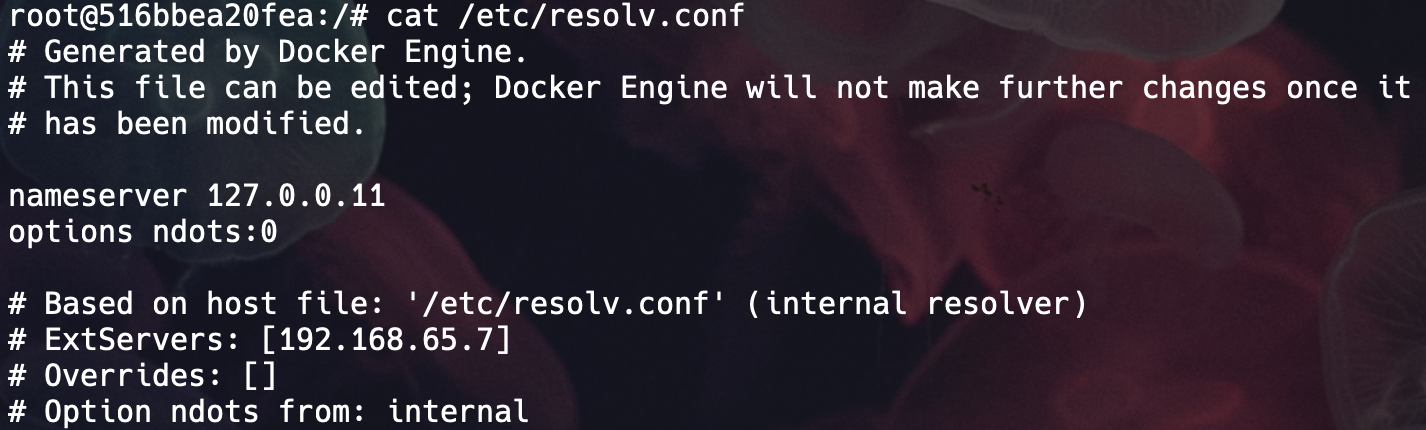
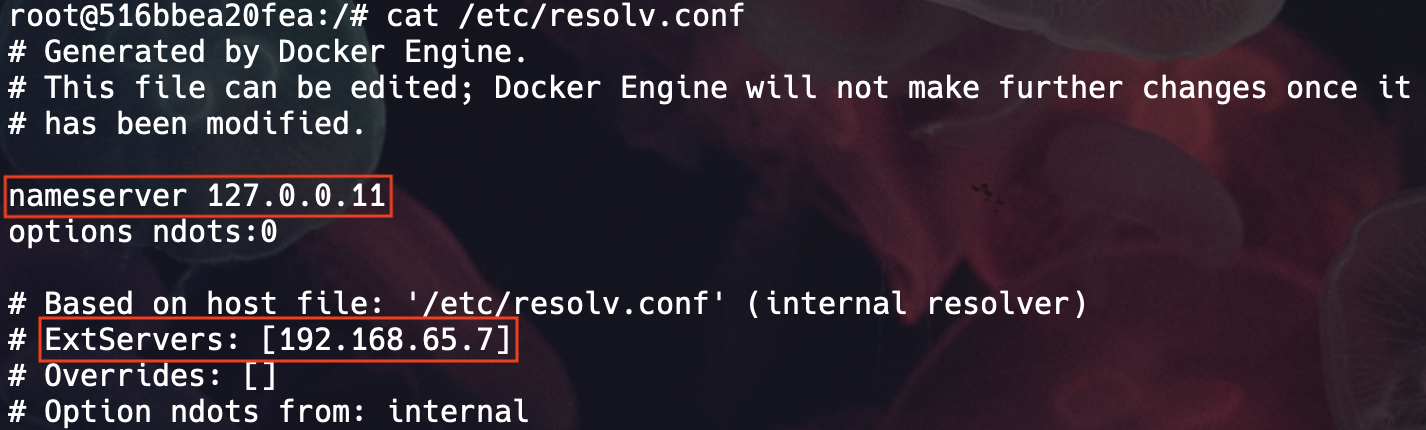
20個目追加

Changed region(s): [[0.0, 0.393, 0.2777, 0.514], [0.0309, 0.8163, 0.3703, 0.8465], [0.0309, 0.7256, 0.3703, 0.7558]]

diff --git a/articles/sankaku0724-newcreate20.md b/articles/sankaku0724-newcreate20.md
@@ -1,5 +1,5 @@
 ---
-title: "【初学者向け】Dockerネットワークの基礎と実践"
+title: "【初学者向け】Dockerネットワークの基礎"
 emoji: "🌐"
 type: "tech"
 topics:
@@ -38,11 +38,11 @@ https://docs.docker.com/
 
 ## Dockerネットワーク
 
-私たちはDockerを扱う際に仮想的なネットワークを作ることで，Dockerホストとコンテナ、もしくはコンテナ間で通信することができます。
+私たちはDockerを扱う際に仮想的なネットワークを作ることで、Dockerホストとコンテナ、もしくはコンテナ間で通信することができます。
 
-ここで，[**`docker network`コマンド**](https://docs.docker.jp/engine/userguide/networking/work-with-networks.html)を用いることでDocker上のネットワークの各種設定をすることができます．
+ここで、[**`docker network`コマンド**](https://docs.docker.jp/engine/userguide/networking/work-with-networks.html)を用いることでDocker上のネットワークの各種設定をすることができます。
 
-まず，Dockerが管理するネットワークの確認をしてみます．Dockerが管理するネットワークは、`docker network ls`コマンドで確認できます。
+まず、Dockerが管理するネットワークの確認をしてみます。Dockerが管理するネットワークは、[**`docker network ls`コマンド**](https://docs.docker.jp/engine/reference/commandline/network_ls.html)で確認できます。
 
 ```
 docker network ls
@@ -51,9 +51,9 @@ docker network ls
 ![](/images/sankaku20/1.png)
 *Dockerが管理するネットワーク*
 
-実行画面から分かるように、「bridge」「host」「none」という三つのネットワークが表示されました．[デフォルトでDockerは三つのネットワークを自動的に作成するようになっています](https://docs.docker.jp/engine/userguide/networking/dockernetworks.html#id2)。
+実行画面から分かるように、「bridge」「host」「none」という三つのネットワークが表示されました。[デフォルトでDockerは三つのネットワークを自動的に作成するようになっています](https://docs.docker.jp/engine/userguide/networking/dockernetworks.html#id2)。
 
-それぞれどんな役割を持つのか確認してみましょう．
+それぞれどんな役割を持つのか確認してみます。
 
 ## bridgeネットワーク
 
@@ -65,11 +65,11 @@ docker network ls
 
 #### コンテナの作成
 
-ここでは、2つのhttpdコンテナを起動し、そのコンテナに割り当てられるIPアドレスを確認します。httpdの使い方などは以下のサイトを確認してください。
+ここでは、2つのhttpdコンテナを起動し、そのコンテナに割り当てられるIPアドレスを確認します。httpdの使い方は以下のサイトに記載されています。
 
 https://hub.docker.com/_/httpd
 
-以下のコマンドでポート番号8080に割り当てた「web01」とポート番号8081に割り当てた「web02」という名前のコンテナをそれぞれ作成します．
+以下のコマンドでポート番号8080に割り当てた「web01」とポート番号8081に割り当てた「web02」という名前のコンテナをそれぞれ作成します。
 
 ```
 docker run -dit --name web01 -p 8080:80 httpd:2.4
@@ -84,8 +84,8 @@ docker run -dit --name web02 -p 8081:80 httpd:2.4
 
 #### IPアドレスの確認
 
-コンテナが起動したらIPアドレスを確認します．
-この際に，Dockerの詳細情報を取得するためのコマンドである[**`docker inspect`コマンド**](https://docs.docker.jp/engine/reference/commandline/inspect.html)を用いてコンテナの情報を抜き出し，さらに--formatオプションをつけることでIPアドレスの部分だけを表示させるようにします．
+コンテナが起動したらIPアドレスを確認します。
+この際に、Dockerの詳細情報を取得するためのコマンドである[**`docker inspect`コマンド**](https://docs.docker.jp/engine/reference/commandline/inspect.html)を用いてコンテナの情報を抜き出し、さらに--formatオプションを用いてIPアドレスの部分だけを表示させるようにします。
 
 ```
 docker container inspect --format="{{.NetworkSettings.IPAddress}}" web01
@@ -97,20 +97,20 @@ docker container inspect --format="{{.NetworkSettings.IPAddress}}" web02
 
 ![](/images/sankaku20/3.png)
 
-これにより，web01は「172.17.0.2」，web02は「172.17.0.3」というIPアドレスが設定されていることが判明しました．
+これにより、web01には「172.17.0.2」、web02には「172.17.0.3」のIPアドレスが設定されていることが判明しました。
 
 ### Dockerコンテナ同士の通信
 
-コンテナはそれぞれ異なるIPアドレスを持ち、bridgeネットワークに接続されています。そのため，コンテナ同士はこのネットワークを通じて互いに自由に通信を行うことができます．
+コンテナはそれぞれ異なるIPアドレスを持ち、bridgeネットワークに接続されています。そのため、コンテナ同士はこのネットワークを通じて互いに自由に通信を行うことができます。
 
-ここで注意する必要があります．**Dockerコンテナ間で通信する際は，-pオプションを設定する必要がない**ということです．-pオプションはDockerホスト側で受信したデータをそれぞれのDockerコンテナの特定のポートに転送する設定ですが、Dockerホストを経由しない通信の場合には必要ないからです．
+ここで注意が必要です。**Dockerコンテナ間で通信する際は-pオプションを設定する必要がない**ということです。-pオプションはDockerホスト側で受信したデータをそれぞれのDockerコンテナの特定のポートに転送する設定ですが、Dockerホストを経由しない通信の場合には必要ありません。
 
 #### 1. 三つ目のコンテナの作成
 
 実際にコンテナ間で通信できるのか試してみます。
-ここでは、三つ目のコンテナを作成し、そのコンテナからweb01とweb02に通信可能かどうかを確認します．
+ここでは、三つ目のコンテナを作成し、そのコンテナからweb01とweb02に通信可能かどうかを確認します。
 
-以下のコマンドで新しいubuntuコンテナを作成し，シェルを起動します。実行するとプロンプトが表示され、コンテナ内でコマンド入力ができるようになります。
+以下のコマンドで新しいubuntuコンテナを作成し、シェルを起動します。実行するとプロンプトが表示され、コンテナ内でコマンド入力ができるようになります。
 
 ```
 docker run --rm -it ubuntu /bin/bash
@@ -121,7 +121,7 @@ docker run --rm -it ubuntu /bin/bash
 
 #### 2. 必要なものをインストール
 
-コマンド入力できるようになったら，以下のコマンドをそれぞれ入力することでネットワーク関連の操作を可能にします．
+コマンド入力できるようになったら、以下のコマンドをそれぞれ入力することでネットワーク関連の操作を可能にします。
 
 ```
 apt update
@@ -135,15 +135,15 @@ apt install -y iproute2 iputils-ping curl
 インストールされているすべてのパッケージを最新バージョンにアップグレードします。-yオプションは、すべての質問に対して自動的に「yes」と答えるため、ユーザーの確認を省略します。
 
 - **`apt install -y iproute2 iputils-ping curl`**
-`iproute2`、`iputils-ping`、および`curl`パッケージをインストールします。-yオプションは、インストールに際しての確認を自動的に「yes」としてスキップします。
+`iproute2`、`iputils-ping`、および`curl`パッケージをインストールします。
 
-  - `iproute2`: ネットワークインターフェイスやルーティングを管理するためのツールセットであり，`ip`コマンドなどが含まれています。
+  - `iproute2`: ネットワークインターフェイスやルーティングを管理するためのツールセットであり、`ip`コマンドなどが含まれています。
   - `iputils-ping`: ネットワークの接続性を確認するための `ping`コマンドを提供します。
-  - `curl`: URLからデータを取得するためのコマンドラインツールであり，HTTP、HTTPS、FTPなどのプロトコルをサポートしています。
+  - `curl`: URLからデータを取得するためのコマンドラインツールであり、HTTP、HTTPS、FTPなどのプロトコルをサポートしています。
 
 #### 3. IPアドレスを確認する
 
-`ip`コマンドでIPアドレスを確認します．
+`ip`コマンドでIPアドレスを確認します。
 
 ```
 ip address
@@ -151,17 +151,17 @@ ip address
 
 ![](/images/sankaku20/5.png)
 
-画像の最後の部分に表示されているeth0インターフェイスのinetの部分を確認すると，IPアドレスは「172.17.0.4」であることが確認できました。
+画像の最後の部分に表示されているeth0インターフェイスのinetの部分を確認すると、IPアドレスは「172.17.0.4」であることが確認できました。
 
 #### 4. pingで疎通確認
 
-既に確認してあるweb01コンテナやweb02コンテナのIPアドレスに対してpingを送信して疎通確認をします。
+既に確認してあるweb01やweb02のIPアドレスに対してpingを送信して疎通確認をします。
 
 ```
 ping -c 3 172.17.0.2
 ```
 
-- `-c 3`: 送信するパケットの回数を指定します。この場合、3回のリクエストを送信します。
+- `-c 3`: 送信するパケットの回数です。この場合、3回のリクエストを送信します。
 
 ![](/images/sankaku20/6.png)
 *web01へのping送信*
@@ -173,12 +173,11 @@ ping -c 3 172.17.0.3
 ![](/images/sankaku20/7.png)
 *web02へのping送信*
 
-
-結果が「0% packet loss」となっていることから，疎通できていることがわかります．
+結果が「0% packet loss」となっていることから、通信できていることがわかります。
 
 #### 5. コンテンツを取得
 
-次に，`curl`コマンドを使用してweb01やweb02に接続することで、公開されているWebコンテンツを取得できるかを確認します．
+次に、`curl`コマンドを使用してweb01やweb02に接続することで、公開されているWebコンテンツを取得できるかを確認します。
 
 ```
 curl http://172.17.0.2/
@@ -190,12 +189,12 @@ curl http://172.17.0.3/
 
 ![](/images/sankaku20/8.png)
 
-「It works!」と表示されていることから，Webコンテンツを取得できていることがわかります．
+「It works!」と表示されていることから、Webコンテンツを取得できていることがわかります。
 
 #### 6. IPアドレス以外で接続確認
 
-ここで，コンテナ名で接続しようとするとどうなるでしょうか．
-web01を指定して，`ip`コマンドや`curl`コマンドを使用してみます．
+ここで、コンテナ名で接続しようとするとどうなるでしょうか。
+web01を指定して、`ip`コマンドや`curl`コマンドを使用してみます。
 
 ```
 ping -c 3 web01
@@ -218,18 +217,18 @@ curl http://web01/
 exit
 ```
 
-### IPアドレスではなく，コンテナ名を指定できるようにする
+### Dockerネットワークを作成してコンテナ名を指定できるようにする
 
-今までの作業で，コンテナはそれぞれ割り当てられたIPアドレスを利用して、互いに通信できることがわかりました。同時に、IPアドレスの代わりとしてコンテナ名を使って通信することはできないということもわかりました。
-コンテナに対して、どのようなIPアドレスが割り当てられるのかはコンテナを起動するまでわからないため，コンテナ名で通信相手を指定できないのはとても不便です。また，コンテナを破棄して作り直した場合に、IPアドレスが変わる恐れがあるのも問題です。
+今までの作業で、コンテナはそれぞれ割り当てられたIPアドレスを利用して、互いに通信できることがわかりました。同時に、IPアドレスの代わりとしてコンテナ名を使って通信することはできないということもわかりました。
+コンテナに対して、どのようなIPアドレスが割り当てられるのかはコンテナを起動するまでわからないため、コンテナ名で通信相手を指定できないのはとても不便です。また、コンテナを破棄して作り直した場合に、IPアドレスが変わる恐れがあるのも問題です。
 
-ここで，IPアドレスではなくコンテナ名で通信相手を特定できるようにする方法として，**Dockerネットワークを新規に作成する方法**が存在します．
-Dockerネットワークを新規に作成することにより，内部DNSサービスが提供され，同じネットワーク内のコンテナはコンテナ名で通信できるようになります。
+ここで、IPアドレスではなくコンテナ名で通信相手を特定できるようにする方法として、**Dockerネットワークを新規に作成する方法**が存在します。
+Dockerネットワークを新規に作成することにより、同じネットワーク内のコンテナはコンテナ名で通信できるようになります。
 
 #### 1. Dockerネットワークの新規作成
 
-実際に確認してみます．
-Dockerネットワークは[**`docker network create`コマンド**](https://docs.docker.jp/engine/reference/commandline/network_create.html)を用いて作成することができます．以下のコマンドで「mynetwork」という名前のDockerネットワークを新規作成します．
+実際に確認してみます。
+Dockerネットワークは[**`docker network create`コマンド**](https://docs.docker.jp/engine/reference/commandline/network_create.html)を用いて作成することができます。以下のコマンドで「mynetwork」という名前のDockerネットワークを新規作成します。
 
 ```
 docker network create mynetwork
@@ -238,82 +237,168 @@ docker network create mynetwork
 ![](/images/sankaku20/10.png)
 *Dockerネットワークを新規作成*
 
-`docker network ls`コマンドで確認すると，「mynetwork」ネットワークが作成されていることが確認できました．
+`docker network ls`コマンドで確認すると、「mynetwork」が作成されていることが確認できました。
 
 ![](/images/sankaku20/11.png)
 *「mynetwork」が存在している*
 
+ここで、ネットワークの情報を表示する[**`docker network inspect`コマンド**](https://docs.docker.jp/engine/reference/commandline/network_inspect.html)を利用して、「mynetwork」の情報を確認してみます。
 
+```
+docker network inspect mynetwork
+```
 
+![](/images/sankaku20/12.png)
 
-
-
-
-
+この情報から、ネットワークのサブネットが「172.18.0.0/16」であり、ゲートウェイのIPアドレスが「172.18.0.1」であることが確認できました。
 
 #### 2. Dockerネットワーク上でコンテナを作成
 
+新規作成したネットワークに参加するコンテナを作ってみます。また、この際に、稼働しているweb01とweb02を破棄し、「mynetwork」に接続するようにして作り直すことにします。
 
+![](/images/sankaku20/13.png)
+*web01及びweb02の停止と破棄*
 
-
-
-
+ネットワークに接続させるには、`docker run`の実行時に[--netオプションで接続したいネットワークを指定](https://docs.docker.jp/engine/userguide/networking/work-with-networks.html#connect-containers-network)する必要があります。
 
 ```
 docker run -dit --name web01 -p 8080:80 --net mynetwork httpd:2.4
 ```
 
-
-
-![](/images/sankaku20/12.png)
-
-![](/images/sankaku20/13.png)
+```
+docker run -dit --name web02 -p 8081:80 --net mynetwork httpd:2.4
+```
 
 ![](/images/sankaku20/14.png)
+*接続完了*
+
+`docker network inspect`コマンドでネットワークの情報を確認してみると、web01とweb02が「mynetwork」に接続されていることがわかります。
 
 ![](/images/sankaku20/15.png)
 
+#### 3. コンテナ名で接続確認
+
+では、同じネットワーク内のコンテナは本当にコンテナ名で通信できるようになっているのか確認してみます。
+今回も三つ目のコンテナを作成し、そのコンテナからweb01とweb02に通信可能かどうかを確認します。この際に--netオプションで「mynetwork」を指定してコンテナを作成します。
+
+```
+docker run --rm -it --net mynetwork ubuntu /bin/bash
+```
+
 ![](/images/sankaku20/16.png)
 
+コマンド入力できるようになったら、以下のコマンドをそれぞれ入力することでネットワーク関連の操作を可能にします。
+
+```
+apt update
+apt -y upgrade
+apt install -y iproute2 iputils-ping curl
+```
+
+入力したら、web01やweb02に対してpingを送信してみます。ここでは、先ほどとは違い、IPアドレスではなくコンテナ名を指定してpingを送信してみます。
+
+```
+ping -c 3 web01
+```
+
+```
+ping -c 3 web02
+```
+
 ![](/images/sankaku20/17.png)
+*コンテナ名を指定したping送信*
+
+結果が「0% packet loss」となっていることから、通信できていることがわかります。
+
+また、`curl`コマンドを使用してweb01やweb02に接続することで、公開されているWebコンテンツを取得できるかを確認します。ここでも、IPアドレスではなくコンテナ名を指定します。
+
+```
+curl http://web01/
+```
+
+```
+curl http://web02/
+```
 
 ![](/images/sankaku20/18.png)
 
+「It works!」と表示されていることから、Webコンテンツを取得できていることがわかります。
+
+### コンテナ名で通信できる仕組み
+
+ここまでの流れで、Dockerネットワークを新規に作成することにより、コンテナ名で通信できるようになることがわかりました。
+では、なぜコンテナ名で通信できるようになっているのでしょうか？
+
+それは、**Dockerネットワークで内蔵DNSサーバが提供されるから**です。
+
+[Docker公式ドキュメント日本語訳](https://docs.docker.jp/engine/userguide/networking/dockernetworks.html#docker-dns)を確認すると、以下のように説明されていました。
+
+> Dockerデーモンは内蔵DNSサーバを動かし、ユーザ定義ネットワーク上でコンテナがサービス・ディスカバリを自動的に行えるようにします。コンテナから名前解決のリクエストがあれば、内部DNSサーバを第一に使います。リクエストがあっても内部DNSサーバが名前解決できなければ、外部のDNSサーバにコンテナからのリクエストを転送します。割り当てできるのはコンテナの作成時だけです。内部DNSサーバが到達可能なのは127.0.0.11のみであり、コンテナのresolv.confに書かれます。
+
+`cat`コマンドでコンテナの`resolv.conf`を実際に確認してみると、以下のように表示されました。
+
 ![](/images/sankaku20/19.png)
+*「`/etc/resolv.conf`」ファイルの中身*
+
+Docker公式ドキュメント日本語訳にも記載されている通り、`nameserver 127.0.0.11`はDockerがコンテナ用に提供する内部DNSサーバーのIPアドレスです。この内部DNSサーバーを使うことで、同じDockerネットワーク内のコンテナ名を名前解決できます。
+
+また、`ExtServers: [192.168.65.7]`から、外部DNSサーバーのIPアドレスが「192.168.65.7」であることもわかりました。
+
+この設定により、Dockerネットワーク内のコンテナはコンテナ名でお互いに通信できるようになります。
+
+### Dockerネットワークの削除
+
+作成した「mynetwork」を削除します。
+まず、「mynetwork」を利用しているコンテナを停止した後に破棄します。
 
 ![](/images/sankaku20/20.png)
+*web01及びweb02の停止と破棄*
+
+コンテナを破棄したら、[**`docker network rm`コマンド**](https://docs.docker.jp/engine/reference/commandline/network_rm.html)を用いて「mynetwork」を削除します。
+
+```
+docker network rm mynetwork
+```
 
 ![](/images/sankaku20/21.png)
+*「mynetwork」を削除*
+
+`docker network ls`コマンドで確認すると、「mynetwork」が作成されていることが確認できました。
 
 ![](/images/sankaku20/22.png)
+*「mynetwork」が存在していない*
+
+ここで、使い終わったイメージも削除しておきます。`docker image ls`でイメージ一覧を表示します。
 
 ![](/images/sankaku20/23.png)
+*イメージ一覧*
+
+確認したら**本当に消しても良いかどうかをよく確認して**、問題がなければ[イメージを一括削除](https://zenn.dev/joho0724/articles/sankaku0724-newcreate15#%E5%85%A8%E3%81%A6%E3%81%AE%E3%82%A4%E3%83%A1%E3%83%BC%E3%82%B8%E3%82%92%E5%89%8A%E9%99%A4)しましょう。
 
 ![](/images/sankaku20/24.png)
 
-
 ## hostネットワーク
 
-**[hostネットワーク](https://docs.docker.jp/network/host.html)は，コンテナがホストのネットワークスタックを直接使用するネットワークモード**です。
-**DockerホストのIPアドレスを全Dockerコンテナで共有して使うことができる**ため，ネットワーク性能が重要なアプリケーションやホストのIPアドレスをそのまま使用したい場合に適しています．これにより，ネットワークのオーバーヘッドが少なくなるため、通信速度が向上することがあります．また，コンテナがホストのネットワークを直接使用するため、ネットワークの設定が簡素化されるというメリットもあります．
+**[hostネットワーク](https://docs.docker.jp/network/host.html)は、コンテナがホストのネットワークスタックを直接使用するネットワークモード**です。
+**DockerホストのIPアドレスを全Dockerコンテナで共有して使うことができる**ため、ネットワーク性能が重要なアプリケーションやホストのIPアドレスをそのまま使用したい場合に適しています。これにより、ネットワークのオーバーヘッドが少なくなるため、通信速度が向上することがあります。また、コンテナがホストのネットワークを直接使用するため、ネットワークの設定が簡素化されるというメリットもあります。
 
 ## noneネットワーク
 
-**[noneネットワーク](https://docs.docker.jp/network/none.html)は，コンテナがネットワークに接続しないネットワークモード**です。
-ネットワーク通信を必要としないため，バッチ処理やデータ処理タスクなど、**外部と通信させたくないコンテナを完全に独立した環境で作成できる**というメリットがあります．
+**[noneネットワーク](https://docs.docker.jp/network/none.html)は、コンテナがネットワークに接続しないネットワークモード**です。
+ネットワーク通信を必要としないため、バッチ処理やデータ処理タスクなど、**外部と通信させたくないコンテナを完全に独立した環境で作成できる**というメリットがあります。
 
 ## さいごに
 
-ざっくりまとめてみます．
+ざっくりまとめてみます。
 
 1. **bridgeネットワークはDockerのデフォルトネットワークモード**
-ネットワークオプションを指定しない場合に使用されます。Dockerホストやコンテナは、1つの仮想的なbridgeネットワークで接続され、IPアドレスが割り当てられます。また，bridgeネットワークでは、Dockerホスト同士はIPアドレスで接続できます。IPアドレスは、`docker network inspect`や`docker container inspect`で確認できます。
+ネットワークオプションを指定しない場合に使用されます。Dockerホストやコンテナは、1つの仮想的なbridgeネットワークで接続され、IPアドレスが割り当てられます。また、bridgeネットワークでは、Dockerホスト同士はIPアドレスで接続できます。IPアドレスは、`docker network inspect`や`docker container inspect`で確認できます。
 
-2. **コンテナ間の通信では-pオプションは必要ない**
-コンテナ間の通信では、-pオプションを指定する必要がありません．コンテナ上の実際のポート番号で通信します。
+2. **Dockerコンテナ間の通信では-pオプションは必要ない**
+Dockerコンテナ間の通信では、-pオプションを指定する必要がありません。コンテナ上の実際のポート番号で通信します。
 
 3. **名前を指定して通信したい場合はDockerネットワークを作る**
-コンテナ間の通信をする際に、コンテナ名でアクセスしたい場合には`docker network create`で新しいDockerネットワークを作りましょう．`docker run`する際に、--netオプションでそのネットワークにコンテナを参加させることにより、コンテナ名でアクセスできるようになります。
+コンテナ間の通信をする際に、コンテナ名でアクセスしたい場合には`docker network create`で新しいDockerネットワークを作りましょう。`docker run`を行う際に--netオプションでそのネットワークにコンテナを参加させることにより、コンテナ名でアクセスできるようになります。
 
 4. **hostネットワークとnoneネットワーク**
 DockerホストのIPアドレスを全Dockerコンテナで共有して使うhostネットワークと、ネットワークに接続しないnoneネットワークというネットワークがあります。
